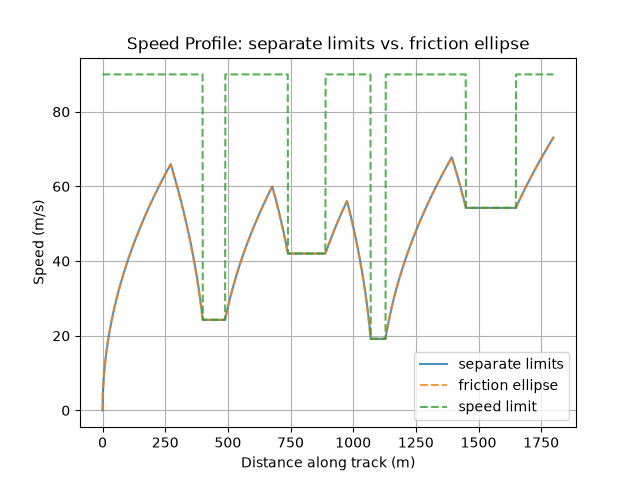
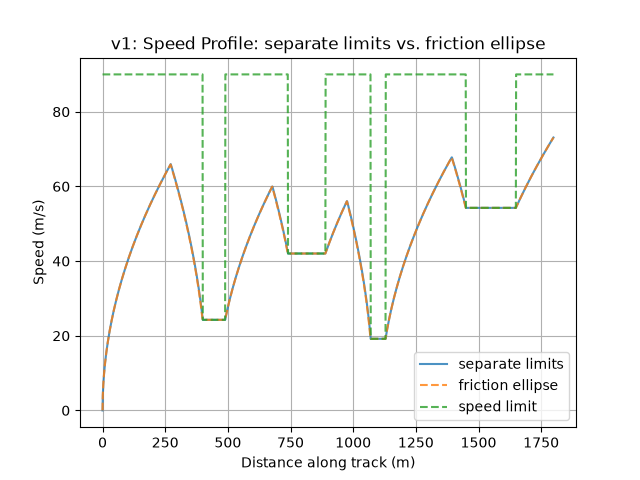
Fixed typo in readme and the title of the plots

Changed region(s): [[0.1875, 0.0625, 0.8438, 0.125]]

diff --git a/v1/main.py b/v1/main.py
@@ -24,7 +24,7 @@ plt.plot(s, v_ellipse, linestyle="--", label="friction ellipse", alpha=0.8)
 plt.plot(s, v_limit, linestyle="--", label="speed limit", alpha=0.8)
 plt.xlabel("Distance along track (m)")
 plt.ylabel("Speed (m/s)")
-plt.title("Speed Profile: separate limits vs. friction ellipse")
+plt.title("v1: Speed Profile: separate limits vs. friction ellipse")
 plt.grid(True)
 plt.legend()
 plt.show()

diff --git a/v1.5/main.py b/v1.5/main.py
@@ -15,7 +15,7 @@ plt.plot(s,v, label="speed profile", alpha=0.8)
 plt.plot(s, v_limit, linestyle = "--", label="speed limit", alpha=0.8)
 plt.xlabel("Distance (m)")
 plt.ylabel("Speed (m/s)")
-plt.title("Lap Time Simulation")
+plt.title("Lap Time Simulation v1.5")
 plt.legend()
 plt.grid(True)
 plt.show()

diff --git a/README.md b/README.md
@@ -46,7 +46,7 @@ Sample circuit, [NUMBER] m long.
 | v1 - friction circle | [44.09] s |
 | v1.5 - | [47.13] s |
 
-![Speed trace v1](v1_reults.png)
+![Speed trace v1](v1_results.png)
 ![Speed trace v1](v1.5_results.png)
 
 In v1 the car accelerates at a constant rate. In v1.5 the acceleration drops as speed rises, because above the motor's base speed the drive force falls as P/v while drag grows with v², so the speed levels off towards a top speed set by power and drag rather than by a fixed cap.
